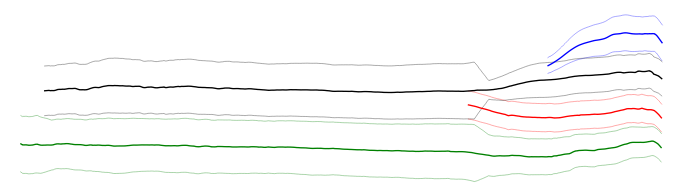
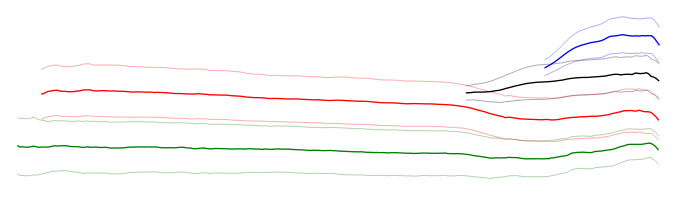
merged changes

diff --git a/chapters/umsetzung2.tex b/chapters/umsetzung2.tex
@@ -539,7 +539,7 @@ aus der starken Überlagerung der vier Spur-Geometrien zu Beginn, was eine falsc
 Um Effekte wie diesen zu korrigieren, werden nach der Partitionierung nun nochmals die Breiten aller Spur-Geometrien
 neu bestimmt. Im Gegensatz zu dem verwendeten Vorgehen aus Abschnitt \ref{sec:real2_define_lane_envelope},
 bei welchem für jede Spur eine feste Breite berechnet wurde, wird diese nun für jeden Punkt der Spur einzelt
-berechnet. Hierdurch wird es möglich, dass beispielsweise die schwarze und grüne Spur aus Abbildung \ref{fig:real2_pre_opt}
+berechnet. Hierdurch wird es möglich, dass beispielsweise die rote und grüne Spur aus Abbildung \ref{fig:real2_pre_opt}
 zu Beginn breiter sind, als an ihrem Ende.
 
 Der zur Bestimmung der neuen Spur-Breiten eingesetzte Algorithmus hat vereinfacht gesehen den nachfolgenden Ablauf:
